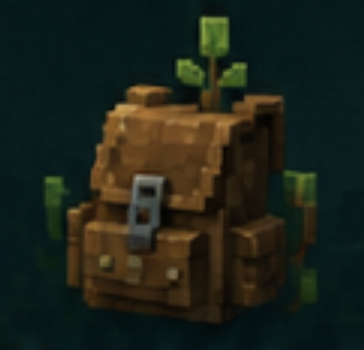
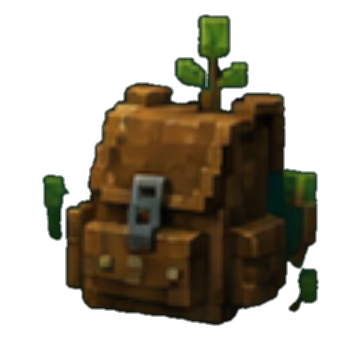
Voxel World: cut the backpack render's dark field to transparency
Edit only the backpack's baked-in background shading (flood-fill the dark
teal field to transparent alpha with feathered edges) — the backpack
design itself is untouched: both pockets, straps, buckle, and every
sapling leaf are preserved. With a transparent field it sits cleanly in
the empty quest panel with no box and needs no blend mode, so its own
colours stay full-strength.

Claude-Session: https://claude.ai/code/session_015zcVxT5cd8rEt7ism5oRTC

diff --git a/css/themes/voxel-world.css b/css/themes/voxel-world.css
@@ -274,14 +274,14 @@
 [data-theme="voxel-world"] .card-art-quote,
 [data-theme="voxel-world"] .card-art-saying,
 [data-theme="voxel-world"] .stat-icon,
-[data-theme="voxel-world"] .empty-art,
 [data-theme="voxel-world"] .empty-state::after {
   mix-blend-mode: lighten;
 }
 
-/* Give the detailed backpack render a bit more presence in the empty
-   quest panel, matching the mockup. Voxel-scoped — other themes keep the
-   shared sizing. */
+/* The backpack render's dark field is cut to transparency, so it needs no
+   blend (which would dull its own colours); just give it a bit more
+   presence in the empty quest panel, matching the mockup. Voxel-scoped —
+   other themes keep the shared sizing. */
 [data-theme="voxel-world"] .empty-art {
   width: clamp(92px, 23vw, 118px);
   height: clamp(92px, 23vw, 118px);
